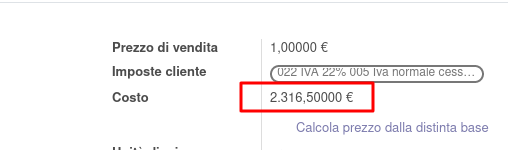
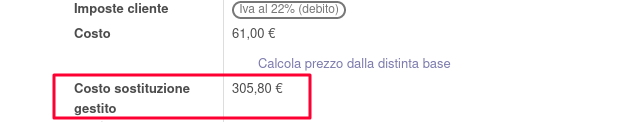
[IMP] readme

diff --git a/mrp_bom_evaluation/static/description/index.html b/mrp_bom_evaluation/static/description/index.html
@@ -367,7 +367,7 @@ ul.auto-toc {
 !! This file is generated by oca-gen-addon-readme !!
 !! changes will be overwritten.                   !!
 !!!!!!!!!!!!!!!!!!!!!!!!!!!!!!!!!!!!!!!!!!!!!!!!!!!! -->
-<p><a class="reference external image-reference" href="https://odoo-community.org/page/development-status"><img alt="Beta" src="https://img.shields.io/badge/maturity-Beta-yellow.png" /></a> <a class="reference external image-reference" href="http://www.gnu.org/licenses/agpl-3.0-standalone.html"><img alt="License: AGPL-3" src="https://img.shields.io/badge/licence-AGPL--3-blue.png" /></a> <a class="reference external image-reference" href="https://github.com/efatto/efatto/tree/12.0/mrp_bom_evaluation"><img alt="efatto/efatto" src="https://img.shields.io/badge/github-efatto%2Fefatto-lightgray.png?logo=github" /></a></p>
+<p><a class="reference external image-reference" href="https://odoo-community.org/page/development-status"><img alt="Beta" src="https://img.shields.io/badge/maturity-Beta-yellow.png" /></a> <a class="reference external image-reference" href="http://www.gnu.org/licenses/agpl-3.0-standalone.html"><img alt="License: AGPL-3" src="https://img.shields.io/badge/licence-AGPL--3-blue.png" /></a> <a class="reference external image-reference" href="https://github.com/sergiocorato/e-efatto/tree/12.0/mrp_bom_evaluation"><img alt="sergiocorato/e-efatto" src="https://img.shields.io/badge/github-sergiocorato%2Fe--efatto-lightgray.png?logo=github" /></a></p>
 <p>This module add ability to evaluate a bom with product prices or vendor prices and store these values to maintain history.</p>
 <p><strong>Table of contents</strong></p>
 <div class="contents local topic" id="contents">
@@ -386,20 +386,23 @@ ul.auto-toc {
 <h1><a class="toc-backref" href="#id1">Configuration</a></h1>
 <p>Quanto si inseriscono le righe delle distinte base, vengono automaticamente inseriti i costi dei prodotti.
 Questi possono essere sovrascritti dall’utente, per adattarli in base alla propria convenienza.</p>
-<img alt="Valutazione bom" src="https://raw.githubusercontent.com/efatto/efatto/12.0/mrp_bom_evaluation/static/description/bom_evaluate.gif" />
+<img alt="Valutazione bom" src="https://raw.githubusercontent.com/sergiocorato/e-efatto/12.0/mrp_bom_evaluation/static/description/bom_evaluate.gif" />
 <p>È inoltre disponibile un bottone che carica il prezzo migliore del fornitore:</p>
-<img alt="Inserimento prezzi fornitori" src="https://raw.githubusercontent.com/efatto/efatto/12.0/mrp_bom_evaluation/static/description/prezzi_fornitori.png" />
+<img alt="Inserimento prezzi fornitori" src="https://raw.githubusercontent.com/sergiocorato/e-efatto/12.0/mrp_bom_evaluation/static/description/prezzi_fornitori.png" />
 <p>È inoltre possibile aggiornare il costo del prodotto finale con i costi dei materiali e delle operazioni previste:</p>
-<img alt="Costi materiali" src="https://raw.githubusercontent.com/efatto/efatto/12.0/mrp_bom_evaluation/static/description/materiali.png" />
-<img alt="Costi operazioni" src="https://raw.githubusercontent.com/efatto/efatto/12.0/mrp_bom_evaluation/static/description/operazioni.png" />
-<img alt="Costo prodotto finale" src="https://raw.githubusercontent.com/efatto/efatto/12.0/mrp_bom_evaluation/static/description/prodotto.png" />
+<img alt="Costi materiali" src="https://raw.githubusercontent.com/sergiocorato/e-efatto/12.0/mrp_bom_evaluation/static/description/materiali.png" />
+<img alt="Costi operazioni" src="https://raw.githubusercontent.com/sergiocorato/e-efatto/12.0/mrp_bom_evaluation/static/description/operazioni.png" />
+<p>Nel prodotto sarà quindi visibile, dopo il costo normale - aggiornato eventualmente sulla distinta base standard - il costo di sostituzione (denominato ‘gestito’ per distinguerlo dal costo di sostituzione di un modulo OCA):</p>
+<img alt="Costo prodotto finale" src="https://raw.githubusercontent.com/sergiocorato/e-efatto/12.0/mrp_bom_evaluation/static/description/prodotto.png" />
+<p>tramite il bottone:</p>
+<img alt="Aggiorna costo" src="https://raw.githubusercontent.com/sergiocorato/e-efatto/12.0/mrp_bom_evaluation/static/description/aggiorna_costo.png" />
 </div>
 <div class="section" id="bug-tracker">
 <h1><a class="toc-backref" href="#id2">Bug Tracker</a></h1>
-<p>Bugs are tracked on <a class="reference external" href="https://github.com/efatto/efatto/issues">GitHub Issues</a>.
+<p>Bugs are tracked on <a class="reference external" href="https://github.com/sergiocorato/e-efatto/issues">GitHub Issues</a>.
 In case of trouble, please check there if your issue has already been reported.
 If you spotted it first, help us smashing it by providing a detailed and welcomed
-<a class="reference external" href="https://github.com/efatto/efatto/issues/new?body=module:%20mrp_bom_evaluation%0Aversion:%2012.0%0A%0A**Steps%20to%20reproduce**%0A-%20...%0A%0A**Current%20behavior**%0A%0A**Expected%20behavior**">feedback</a>.</p>
+<a class="reference external" href="https://github.com/sergiocorato/e-efatto/issues/new?body=module:%20mrp_bom_evaluation%0Aversion:%2012.0%0A%0A**Steps%20to%20reproduce**%0A-%20...%0A%0A**Current%20behavior**%0A%0A**Expected%20behavior**">feedback</a>.</p>
 <p>Do not contact contributors directly about support or help with technical issues.</p>
 </div>
 <div class="section" id="credits">
@@ -418,7 +421,7 @@ If you spotted it first, help us smashing it by providing a detailed and welcome
 </div>
 <div class="section" id="maintainers">
 <h2><a class="toc-backref" href="#id6">Maintainers</a></h2>
-<p>This module is part of the <a class="reference external" href="https://github.com/efatto/efatto/tree/12.0/mrp_bom_evaluation">efatto/efatto</a> project on GitHub.</p>
+<p>This module is part of the <a class="reference external" href="https://github.com/sergiocorato/e-efatto/tree/12.0/mrp_bom_evaluation">sergiocorato/e-efatto</a> project on GitHub.</p>
 <p>You are welcome to contribute.</p>
 </div>
 </div>

diff --git a/mrp_bom_evaluation/models/mrp_bom_line.py b/mrp_bom_evaluation/models/mrp_bom_line.py
@@ -1,6 +1,7 @@
 # Copyright 2021 Sergio Corato <https://github.com/sergiocorato>
 # License AGPL-3.0 or later (https://www.gnu.org/licenses/agpl).
 from odoo import api, fields, models
+from odoo.addons import decimal_precision as dp
 
 
 class MrpBomLine(models.Model):
@@ -12,6 +13,16 @@ class MrpBomLine(models.Model):
         compute_sudo=True,
         groups='account.group_account_user',
         store=True)
+    weight_total = fields.Float(
+        'Total Weight',
+        digits=dp.get_precision('Stock Weight'),
+        compute='_compute_weight_total',
+        store=True)
+
+    @api.depends('product_id', 'product_id.weight', 'product_qty')
+    def _compute_weight_total(self):
+        for line in self:
+            line.weight_total = line.product_id.weight * line.product_qty
 
     @api.onchange('product_id')
     def onchange_product_id(self):

diff --git a/mrp_bom_evaluation/__manifest__.py b/mrp_bom_evaluation/__manifest__.py
@@ -2,13 +2,13 @@
 # License AGPL-3.0 or later (https://www.gnu.org/licenses/agpl).
 {
     'name': 'Mrp bom evaluation',
-    'version': '12.0.1.0.1',
+    'version': '12.0.1.0.2',
     'category': 'Manufacture',
     'license': 'AGPL-3',
     'description': """
     Add product prices to bom lines to evaluate and store them.
     Add function to update prices from current better vendor price.
-    TODO Add function to update product cost from current bom evaluation.
+    Add function to update product replenishment cost from current bom evaluation.
     """,
     'author': "Sergio Corato",
     'website': 'https://efatto.it',

diff --git a/mrp_bom_evaluation/README.rst b/mrp_bom_evaluation/README.rst
@@ -13,9 +13,9 @@ Mrp bom evaluation
 .. |badge2| image:: https://img.shields.io/badge/licence-AGPL--3-blue.png
     :target: http://www.gnu.org/licenses/agpl-3.0-standalone.html
     :alt: License: AGPL-3
-.. |badge3| image:: https://img.shields.io/badge/github-efatto%2Fefatto-lightgray.png?logo=github
-    :target: https://github.com/efatto/efatto/tree/12.0/mrp_bom_evaluation
-    :alt: efatto/efatto
+.. |badge3| image:: https://img.shields.io/badge/github-sergiocorato%2Fe--efatto-lightgray.png?logo=github
+    :target: https://github.com/sergiocorato/e-efatto/tree/12.0/mrp_bom_evaluation
+    :alt: sergiocorato/e-efatto
 
 |badge1| |badge2| |badge3| 
 
@@ -32,32 +32,40 @@ Configuration
 Quanto si inseriscono le righe delle distinte base, vengono automaticamente inseriti i costi dei prodotti.
 Questi possono essere sovrascritti dall'utente, per adattarli in base alla propria convenienza.
 
-.. image:: https://raw.githubusercontent.com/efatto/efatto/12.0/mrp_bom_evaluation/static/description/bom_evaluate.gif
+.. image:: https://raw.githubusercontent.com/sergiocorato/e-efatto/12.0/mrp_bom_evaluation/static/description/bom_evaluate.gif
     :alt: Valutazione bom
 
 È inoltre disponibile un bottone che carica il prezzo migliore del fornitore:
 
-.. image:: https://raw.githubusercontent.com/efatto/efatto/12.0/mrp_bom_evaluation/static/description/prezzi_fornitori.png
+.. image:: https://raw.githubusercontent.com/sergiocorato/e-efatto/12.0/mrp_bom_evaluation/static/description/prezzi_fornitori.png
     :alt: Inserimento prezzi fornitori
 
 È inoltre possibile aggiornare il costo del prodotto finale con i costi dei materiali e delle operazioni previste:
 
-.. image:: https://raw.githubusercontent.com/efatto/efatto/12.0/mrp_bom_evaluation/static/description/materiali.png
+.. image:: https://raw.githubusercontent.com/sergiocorato/e-efatto/12.0/mrp_bom_evaluation/static/description/materiali.png
     :alt: Costi materiali
 
-.. image:: https://raw.githubusercontent.com/efatto/efatto/12.0/mrp_bom_evaluation/static/description/operazioni.png
+.. image:: https://raw.githubusercontent.com/sergiocorato/e-efatto/12.0/mrp_bom_evaluation/static/description/operazioni.png
     :alt: Costi operazioni
 
-.. image:: https://raw.githubusercontent.com/efatto/efatto/12.0/mrp_bom_evaluation/static/description/prodotto.png
+Nel prodotto sarà quindi visibile, dopo il costo normale - aggiornato eventualmente sulla distinta base standard - il costo di sostituzione (denominato 'gestito' per distinguerlo dal costo di sostituzione di un modulo OCA):
+
+.. image:: https://raw.githubusercontent.com/sergiocorato/e-efatto/12.0/mrp_bom_evaluation/static/description/prodotto.png
     :alt: Costo prodotto finale
+
+tramite il bottone:
+
+.. image:: https://raw.githubusercontent.com/sergiocorato/e-efatto/12.0/mrp_bom_evaluation/static/description/aggiorna_costo.png
+    :alt: Aggiorna costo
+
 
 Bug Tracker
 ===========
 
-Bugs are tracked on `GitHub Issues <https://github.com/efatto/efatto/issues>`_.
+Bugs are tracked on `GitHub Issues <https://github.com/sergiocorato/e-efatto/issues>`_.
 In case of trouble, please check there if your issue has already been reported.
 If you spotted it first, help us smashing it by providing a detailed and welcomed
-`feedback <https://github.com/efatto/efatto/issues/new?body=module:%20mrp_bom_evaluation%0Aversion:%2012.0%0A%0A**Steps%20to%20reproduce**%0A-%20...%0A%0A**Current%20behavior**%0A%0A**Expected%20behavior**>`_.
+`feedback <https://github.com/sergiocorato/e-efatto/issues/new?body=module:%20mrp_bom_evaluation%0Aversion:%2012.0%0A%0A**Steps%20to%20reproduce**%0A-%20...%0A%0A**Current%20behavior**%0A%0A**Expected%20behavior**>`_.
 
 Do not contact contributors directly about support or help with technical issues.
 
@@ -77,6 +85,6 @@ Contributors
 Maintainers
 ~~~~~~~~~~~
 
-This module is part of the `efatto/efatto <https://github.com/efatto/efatto/tree/12.0/mrp_bom_evaluation>`_ project on GitHub.
+This module is part of the `sergiocorato/e-efatto <https://github.com/sergiocorato/e-efatto/tree/12.0/mrp_bom_evaluation>`_ project on GitHub.
 
 You are welcome to contribute.

diff --git a/mrp_bom_evaluation/readme/CONFIGURE.rst b/mrp_bom_evaluation/readme/CONFIGURE.rst
@@ -17,5 +17,13 @@ Questi possono essere sovrascritti dall'utente, per adattarli in base alla propr
 .. image:: ../static/description/operazioni.png
     :alt: Costi operazioni
 
+Nel prodotto sarà quindi visibile, dopo il costo normale - aggiornato eventualmente sulla distinta base standard - il costo di sostituzione (denominato 'gestito' per distinguerlo dal costo di sostituzione di un modulo OCA):
+
 .. image:: ../static/description/prodotto.png
     :alt: Costo prodotto finale
+
+tramite il bottone:
+
+.. image:: ../static/description/aggiorna_costo.png
+    :alt: Aggiorna costo
+
